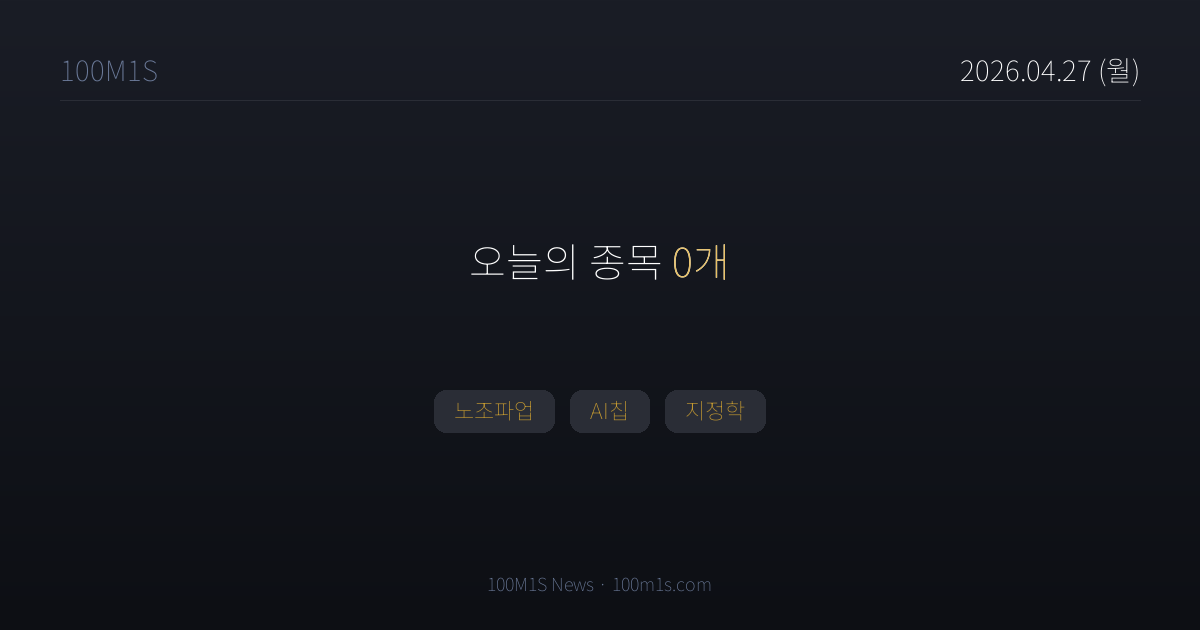
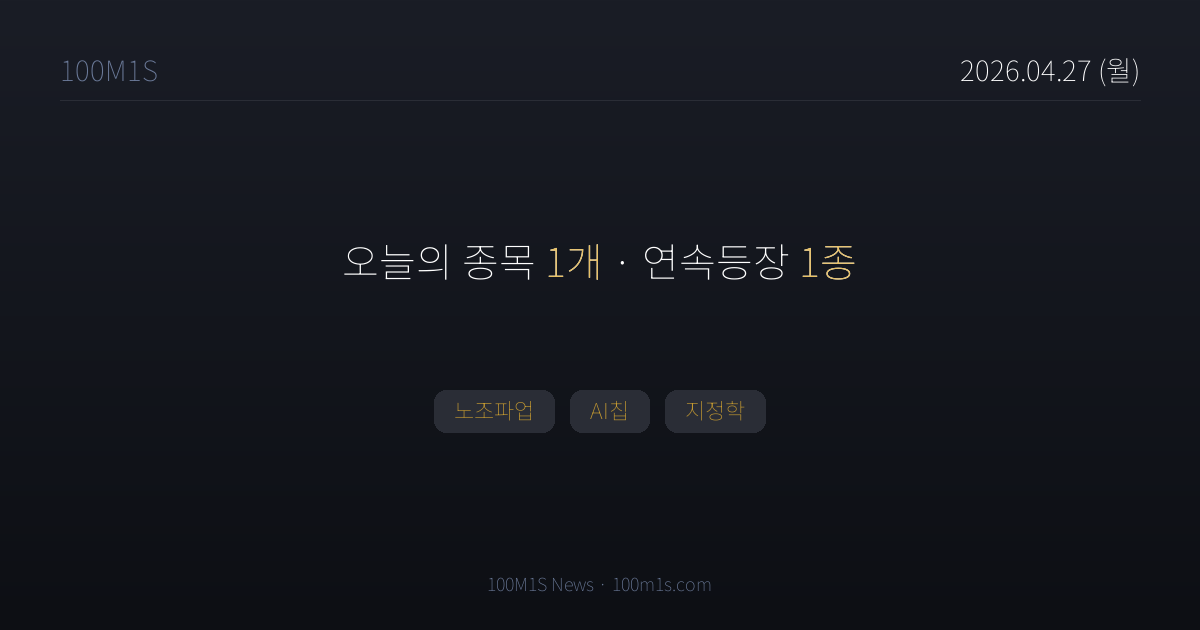
chore(news): 2026-04-27T09:05 pipeline

Changed region(s): [[0.2775, 0.3921, 0.7092, 0.4524]]

diff --git a/news/stock/2026-04-27/006340.html b/news/stock/2026-04-27/006340.html
@@ -1,0 +1,33 @@
+<!DOCTYPE html>
+<html lang="ko">
+<head>
+<meta charset="UTF-8">
+<title>대원전선 (006340) · 100M1S</title>
+<meta property="og:title" content="대원전선 (006340) · 100M1S">
+<meta property="og:description" content="절연선 및 케이블 제조업 · 오늘의 주목 종목">
+<meta property="og:image" content="https://100m1s.com/og/news/stock/2026-04-27/006340.png">
+<meta property="og:image:width" content="1200">
+<meta property="og:image:height" content="630">
+<meta property="og:url" content="https://100m1s.com/news/stock/2026-04-27/006340.html">
+<meta property="og:type" content="article">
+<meta name="twitter:card" content="summary_large_image">
+<meta name="twitter:image" content="https://100m1s.com/og/news/stock/2026-04-27/006340.png">
+<meta name="robots" content="noindex">
+<script>
+(function() {
+  var params = new URLSearchParams(location.search);
+  var date = params.get('date') || '2026-04-27';
+  var code = '006340';
+  var defaultName = '대원전선';
+  var rawHash = location.hash.replace(/^#/, '');
+  var nameFromHash = decodeURIComponent(rawHash).replace(/^stock-[A-Za-z0-9]+-?/, '');
+  var finalName = nameFromHash || defaultName;
+  var targetHash = '#stock-' + code + (finalName ? '-' + finalName : '');
+  location.replace('/news.html?date=' + encodeURIComponent(date) + targetHash);
+})();
+</script>
+</head>
+<body>
+<p>리다이렉트 중... <a href="/news.html?date=2026-04-27#stock-006340-대원전선">대원전선 (006340) 뉴스 보기</a></p>
+</body>
+</html>

diff --git a/news/stock/2026-04-27.html b/news/stock/2026-04-27.html
@@ -3,7 +3,7 @@
 <head>
 <meta charset="UTF-8">
 <title>4월 27일 (월) 뉴스 — 100M1S</title>
-<meta property="og:title" content="4월 27일 (월) · 종목 0개">
+<meta property="og:title" content="4월 27일 (월) · 종목 1개">
 <meta property="og:description" content="노조파업, AI칩, 지정학">
 <meta property="og:image" content="https://100m1s.com/og/news/stock/2026-04-27.png">
 <meta property="og:image:width" content="1200">
